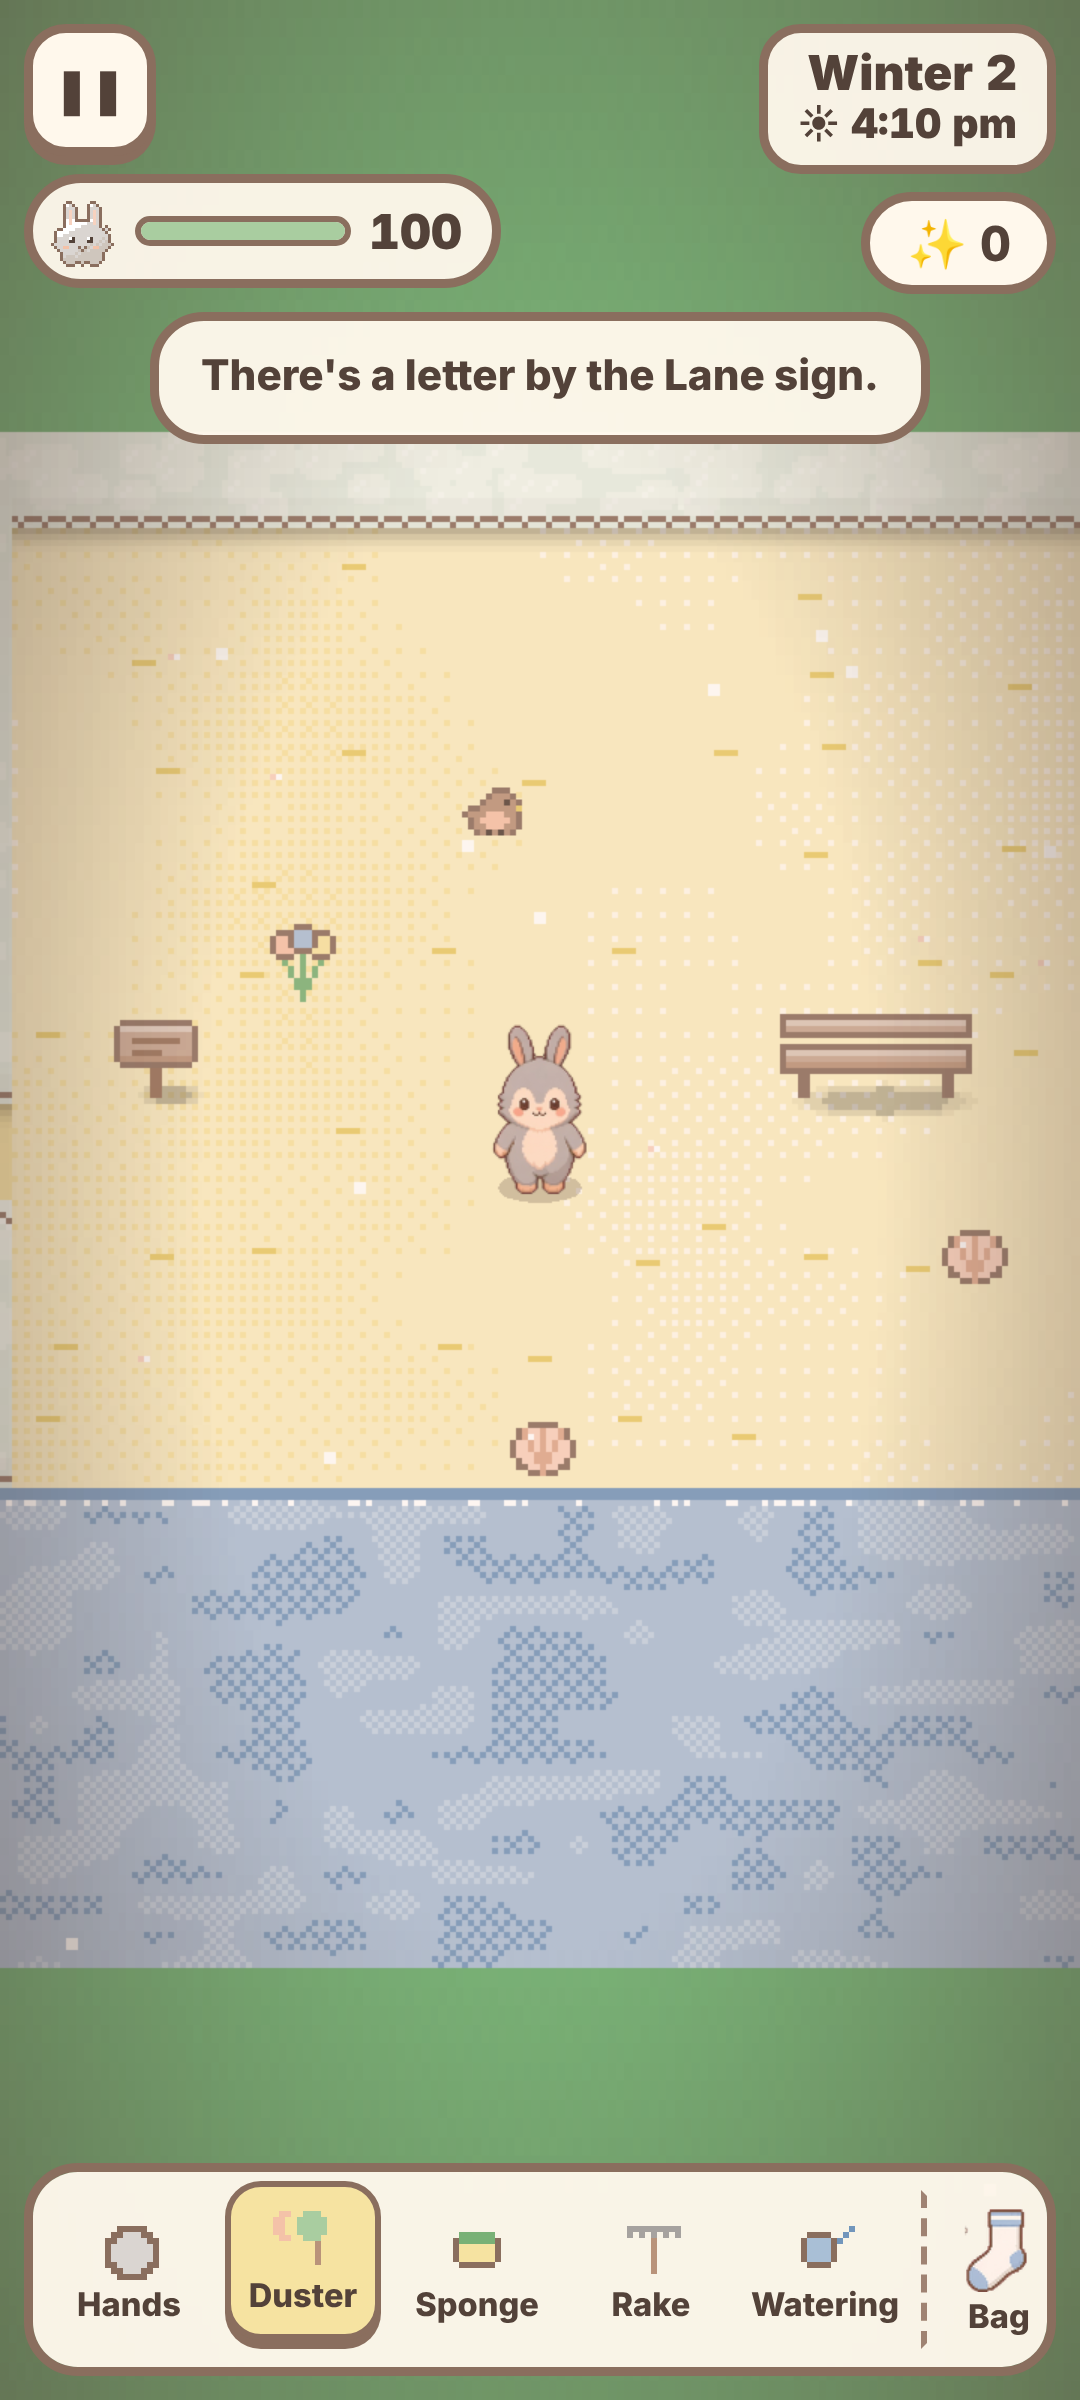
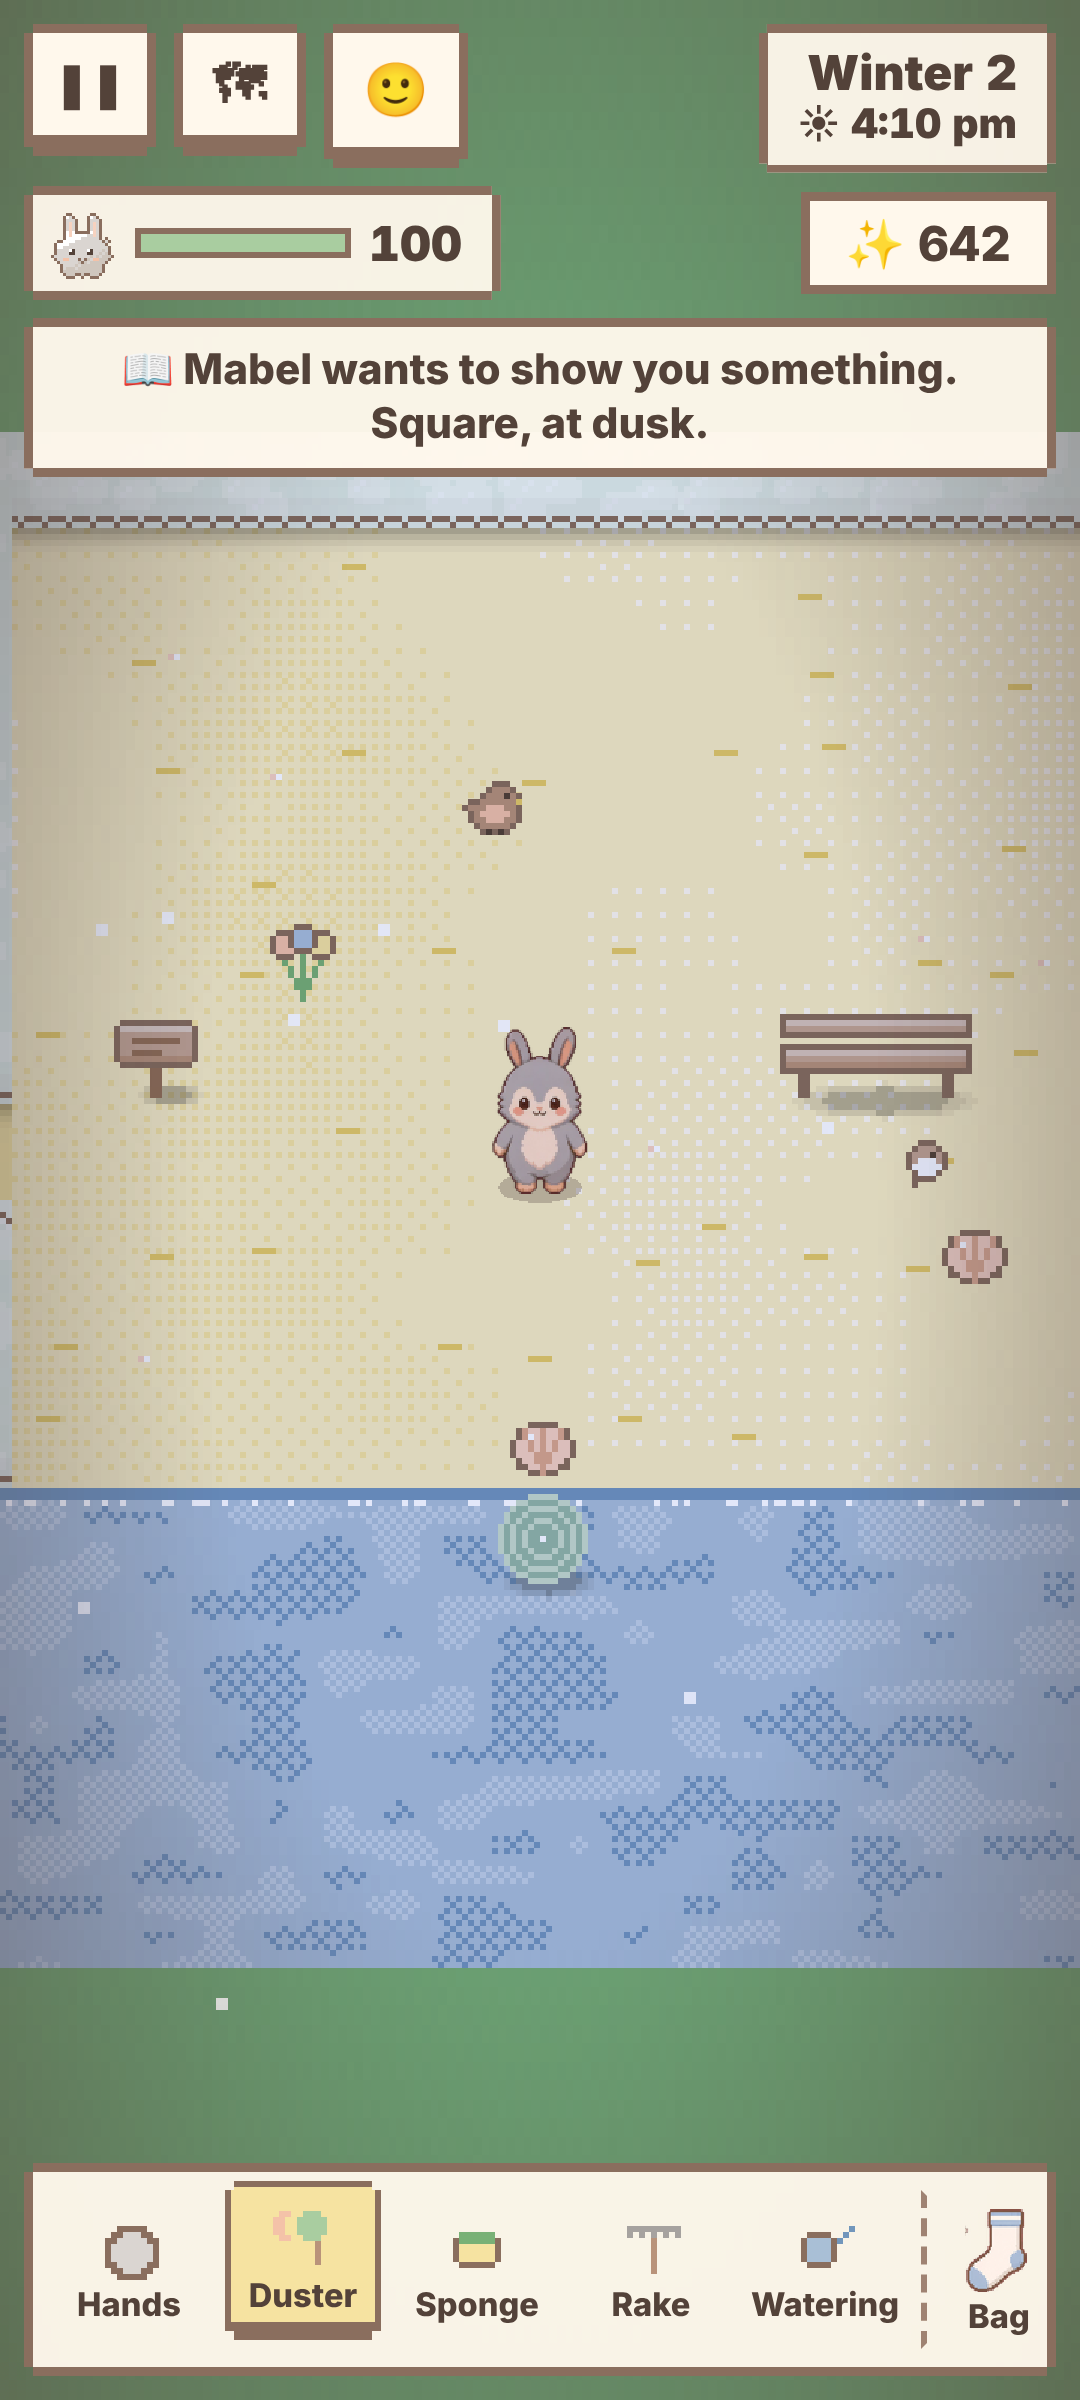
Store screenshots: each shows its own day's story step and a believable Sparkle count
The tool sets the story step for each screenshot's day (a debug setStory
hook) and gives Sparkles to match the day. All twelve screenshots are
retaken with today's look.

Claude-Session: https://claude.ai/code/session_019ifuXDMTRBW6ewTYJKRXLP

diff --git a/apps/web/src/town/debug.ts b/apps/web/src/town/debug.ts
@@ -67,6 +67,8 @@ export function installDebugHooks(g: DebugTarget) {
     /** Skip the tips (hands over every tool), for tests of later play. */
     skipTips: () => g.guide.skip(),
     playScene: (id: string) => g.playScene(id),
+    /** The Keeper's Story at this step, not yet asked (store screenshots show the day's own 📖 line). */
+    setStory: (step: number) => { s.story = { step, asked: false, count: 0, day: 0 }; g.refreshHud(); },
     /** Mark this area restored (for testing what happens after), as if the last mess had gone. */
     restoreHere: () => { g.mess().restore(); },
     /** Every coming-alive stage of this area at once, for screenshots. */
